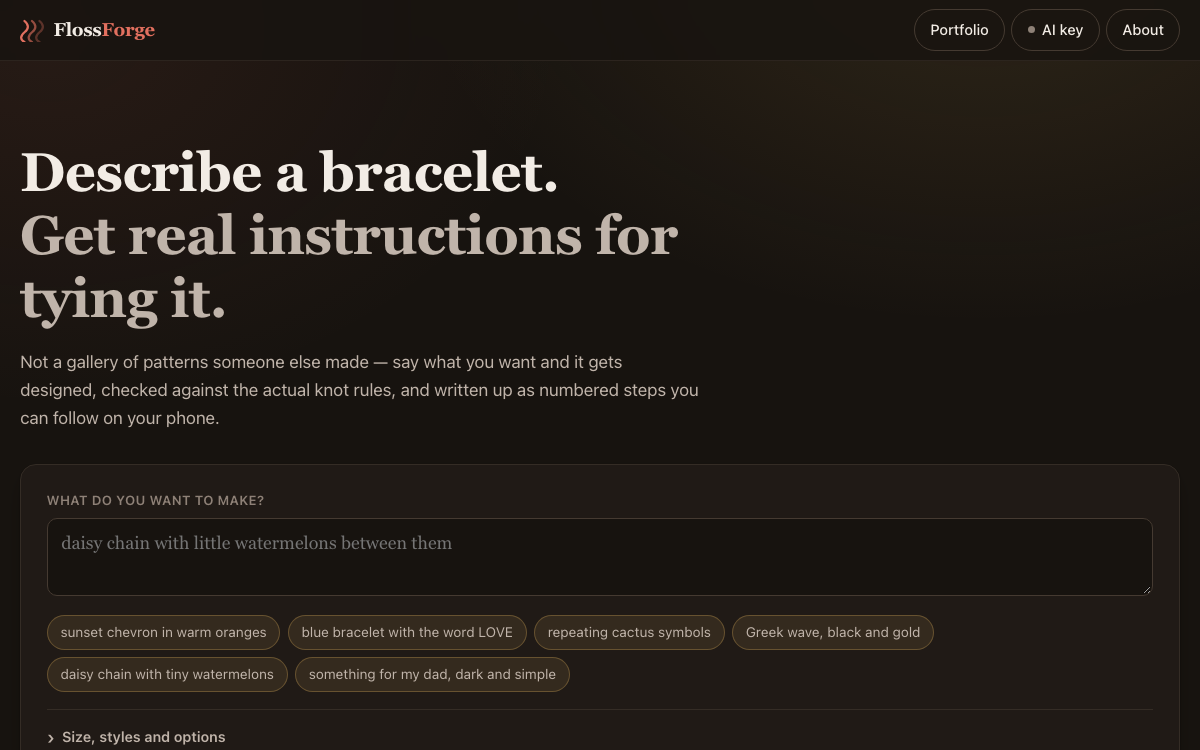
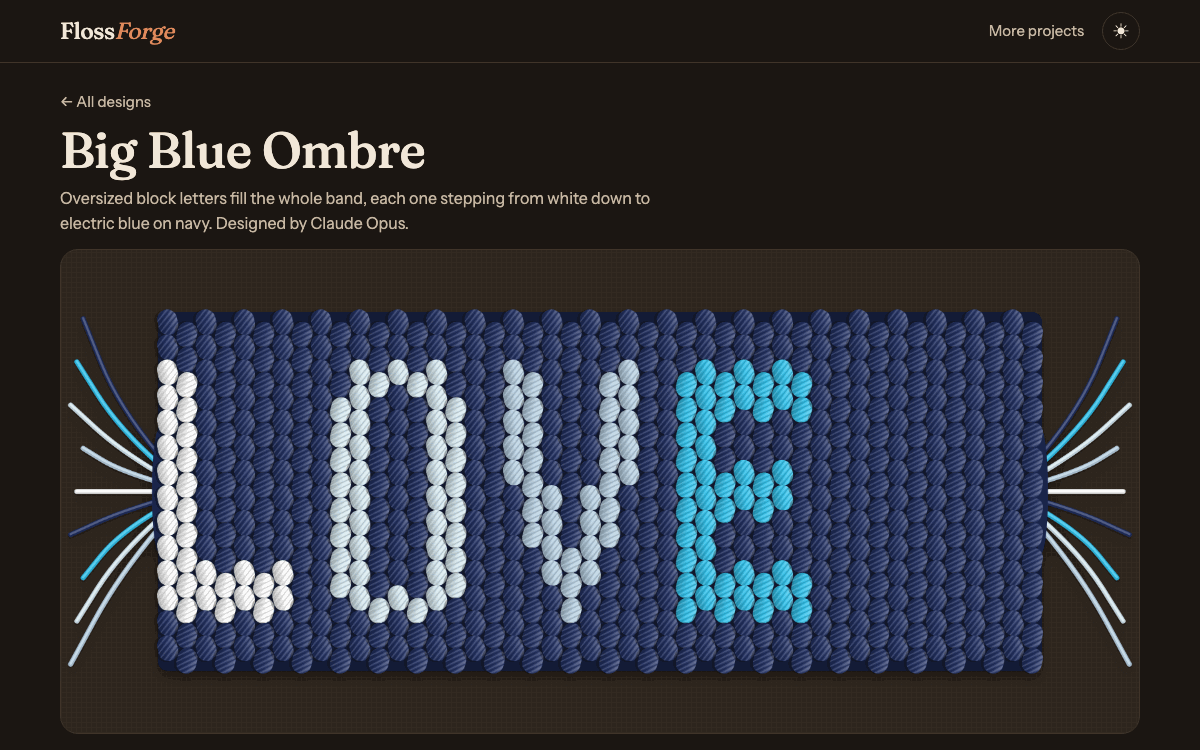
Swap FlossForge card to v2
The card now opens the from-scratch rebuild at flossforge-v2/, shows its
Big Blue Ombre design page, and credits Claude Opus 5.5.

diff --git a/src/components/Projects.test.jsx b/src/components/Projects.test.jsx
@@ -111,6 +111,18 @@ test("Cruise Guide opens the GitHub Pages guide", () => {
   }
 });
 
+test("FlossForge opens the v2 rebuild", () => {
+  const open = jest.spyOn(window, "open").mockImplementation(() => null);
+  try {
+    render(<Projects />);
+    const card = screen.getByText("FlossForge").closest(".card");
+    fireEvent.click(within(card).getByRole("button", { name: /View project/ }));
+    expect(open).toHaveBeenCalledWith("flossforge-v2/", "_blank", "noopener,noreferrer");
+  } finally {
+    open.mockRestore();
+  }
+});
+
 test("cards appear in the chosen order, each saying how it was built", () => {
   render(<Projects />);
   const titles = screen.getAllByRole("heading", { level: 3 }).map((h) => h.textContent);

diff --git a/src/components/Projects.jsx b/src/components/Projects.jsx
@@ -83,9 +83,9 @@ const Projects = () => {
     {
       imgUrl: flossforge,
       title: "FlossForge",
-      buttonUrl: "flossforge/",
+      buttonUrl: "flossforge-v2/",
       description: "Describe a friendship bracelet and get instructions for making it.",
-      builtWith: { kind: "ai", label: "Claude Opus 5" },
+      builtWith: { kind: "ai", label: "Claude Opus 5.5" },
     },
     {
       imgUrl: cruiseGuide,

diff --git a/AGENTS.md b/AGENTS.md
@@ -24,7 +24,7 @@ repo. Never edit a project's code from here unless asked.
 
 1. **Find the project's live URL.**
    - GitHub Pages project site (`daniel-beachy.github.io/<repo>/`): use the **relative** URL
-     `"<repo>/"` with the trailing slash, as for `flossforge/` and `nfl-season-tracker-v3/`.
+     `"<repo>/"` with the trailing slash, as for `flossforge-v2/` and `nfl-season-tracker-v3/`.
    - Cloudflare Workers or another host: use the full `https://…` URL.
    - Open the URL and check that it loads before you add the card.
 2. **Make the thumbnail** (spec below):
@@ -133,9 +133,10 @@ Current provenance:
 - Secret Santa: GPT-5.6 Sol (Copilot CLI session `e31981e5…`, started 7 minutes before the first
   commit).
 - NFL Season Tracker and Sunday HQ: GPT-6 Astra (Copilot CLI on the work laptop, confirmed by Daniel).
-- FlossForge: Claude Opus 5 (Copilot CLI on the work laptop, confirmed by Daniel). Daniel isn't happy
-  with it and plans to redo it with Opus 5.5. When that happens, update the card's URL, thumbnail and
-  label.
+- FlossForge (`flossforge-v2`): Claude Opus 5.5 (Claude Code), a from-scratch rebuild that replaced
+  the v1 card on 2026-11-08. The thumbnail is the Big Blue Ombre design page (a LOVE pixel-grid
+  bracelet), quantized to 256 colors to stay under 400 KB. V1 (`flossforge/`, Claude Opus 5 via
+  Copilot CLI) is still live but no longer linked.
 
 ### Project-side convention
 
